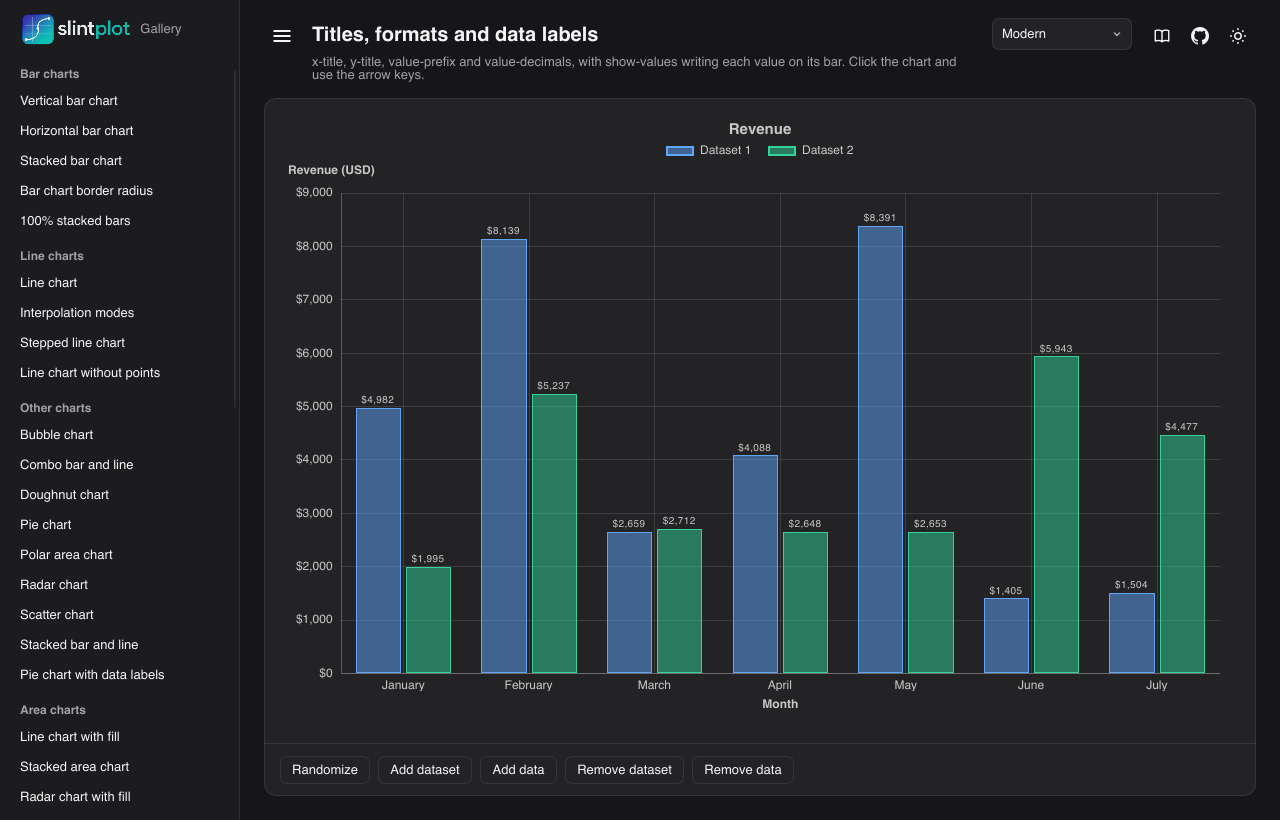
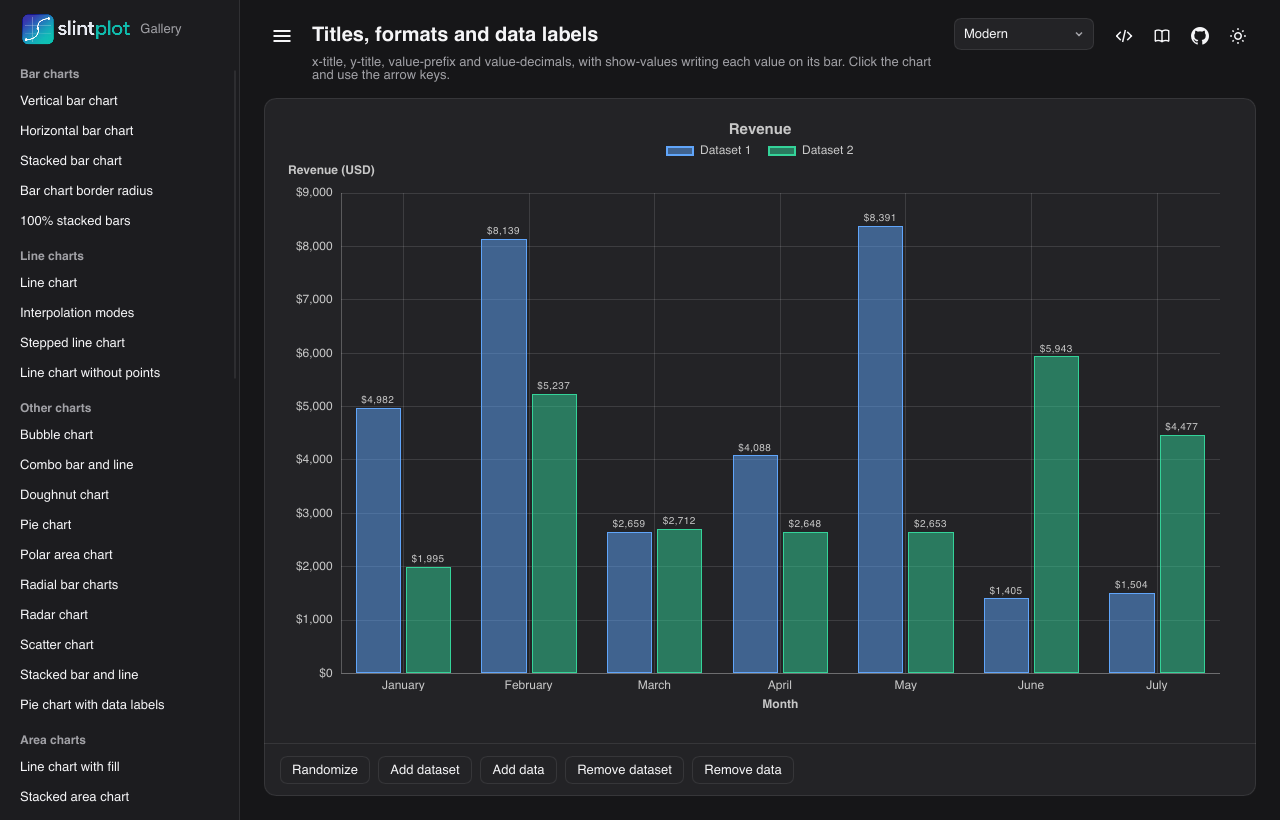
Release 0.3.0: Gantt, bullet, candlestick, radial bar and matrix charts, theme rise and fall colors; gallery code panel and Gantt editor. Website pictures of the gallery rendered again; cargo fmt

diff --git a/docs/index.html b/docs/index.html
@@ -371,18 +371,18 @@
 <figure class="shot"><img width="1280" height="820" class="when-light" src="screenshots/light.webp" alt="The gallery: a bar chart with axis titles, data labels and currency formatting" loading="lazy"><img width="1280" height="820" class="when-dark" src="screenshots/light-dark.webp" alt="The gallery: a bar chart with axis titles, data labels and currency formatting" loading="lazy">
   <figcaption>The gallery app, to try the library out: every chart type, with live data, themes and dark mode.
   <a href="demo/">Try it in your browser</a>, install it with <code>cargo install slintplot-gallery</code>, or download it ready-built from the
-  <a href="https://github.com/trondegil/slintplot/releases/tag/apps-v0.2.2">releases page</a>. See <a href="#examples">Example apps</a>.</figcaption></figure>
+  <a href="https://github.com/trondegil/slintplot/releases/tag/apps-v0.3.0">releases page</a>. See <a href="#examples">Example apps</a>.</figcaption></figure>
 
 <h2 id="getting-started">Getting started</h2>
 <h3>1. Add the dependencies</h3>
 <p>SlintPlot is used both as a regular dependency (the <code>register!</code> macro) and as a build dependency (to find its <code>.slint</code> files).</p>
 <pre><code>[dependencies]
 slint = "1.18"
-slintplot = "0.2"
+slintplot = "0.3"
 
 [build-dependencies]
 slint-build = "1.18"
-slintplot = "0.2"</code></pre>
+slintplot = "0.3"</code></pre>
 
 <h3>2. Make the library importable: <code>build.rs</code></h3>
 <pre><code>fn main() {
@@ -2310,7 +2310,7 @@ a hang or a runaway allocation. Its soak test repeats the same rounds for a whil
 cargo run --release -p slintplot-fuzz -- soak 60    # an hour of the same rounds</code></pre>
 <p>The gallery also runs in the browser, built with WebAssembly: <a href="demo/">slintplot.dev/demo</a>.</p>
 <p>Ready-built apps for macOS, Windows and Linux are on the
-<a href="https://github.com/trondegil/slintplot/releases/tag/apps-v0.2.2">releases page</a>.
+<a href="https://github.com/trondegil/slintplot/releases/tag/apps-v0.3.0">releases page</a>.
 Each download includes the licenses of the open-source crates it is built from.</p>
 <p><a href="https://slint.dev"><img src="assets/MadeWithSlint-logo-whitebg.webp" alt="Made with Slint" width="212" height="97"></a></p>
 <figure class="shot"><img width="1280" height="820" class="when-light" src="screenshots/gallery.webp" alt="The gallery sample browser" loading="lazy"><img width="1280" height="820" class="when-dark" src="screenshots/gallery-dark.webp" alt="The gallery sample browser" loading="lazy"></figure>
@@ -2417,14 +2417,14 @@ slintplot-stress --bench-stream   # only the streaming limits, with your machine
 slintplot-stress                  # the interactive stress test</code></pre>
 
 <h2 id="limitations">Limitations</h2>
-<p>What SlintPlot 0.2 doesn't do yet, or does with restrictions:</p>
+<p>What SlintPlot 0.3 doesn't do yet, or does with restrictions:</p>
 <ul>
   <li><strong>Rust only.</strong> The chart geometry is computed in Rust and connected with <code>register!</code>, so the library can't be used from Slint's C++, JavaScript or Python APIs. For the same reason, charts aren't drawn in Slint's live preview or SlintPad.</li>
   <li><strong>Platforms.</strong> Tested on desktop (macOS, Windows and Linux) and in the browser with WebAssembly, from version 0.1.2: the gallery runs <a href="demo/">in the browser</a>. Embedded (MCU) builds are untested. With Slint's software renderer, enable its <code>software-renderer-path</code> feature, or charts aren't drawn.</li>
   <li><strong>14 built-in languages.</strong> <a href="#languages"><code>ChartTheme.language</code></a> covers 14 languages; for others, set the <a href="#chart-locale"><code>ChartLocale</code></a> fields yourself. Grouping is always in thousands (no Indian lakh grouping, and four-digit numbers are grouped in every language), digits are Western, and right-to-left layout isn't supported.</li>
   <li><strong>Time zones.</strong> Time axes are in UTC, with an optional fixed offset. Named time zones and daylight saving time changes aren't supported.</li>
   <li><strong>Two value axes at most</strong>, and only in line, bar, scatter, bubble and time series charts: horizontal bar charts have one value axis.</li>
-  <li><strong>Zoom, pan and decimation</strong> work in the cartesian charts only (line, bar, scatter and time series). Zoom is off by default.</li>
+  <li><strong>Zoom, pan and decimation</strong> work in the cartesian charts only (line, bar, scatter and time series), and in candlestick and Gantt charts along time. Zoom is off by default.</li>
   <li><strong>Eight colors per theme.</strong> With more than eight datasets the colors repeat. Set your own palette for more (see <a href="#theming">Theming</a>).</li>
   <li><strong>Large charts of separate shapes are slower.</strong> Sunburst, waterfall, dumbbell and funnel charts draw every item as its own shape: about 270 ms for a sunburst with 10,000 items, and about 80&ndash;100 ms for waterfall and dumbbell charts. With up to 1,000 items, a frame takes under 30 ms. Decimation applies to lines only.</li>
   <li><strong>Label fitting is estimated.</strong> Sunburst and treemap labels are kept or hidden from an estimate of the text width, so very wide or narrow fonts can be clipped or hidden too early.</li>

diff --git a/examples/gallery/src/code.rs b/examples/gallery/src/code.rs
@@ -5,9 +5,9 @@
 use slint::{Color, Model, ModelRc, SharedString, VecModel};
 
 use crate::{
-    ChartCandle, ChartGanttTask, CodeFile, ChartDataset, ChartLegendPosition, ChartSeriesType, ChartSlice,
-    ChartSunburstItem, ChartTreemapItem, ChartWaterfallStep, ChartXY, Gallery, SAMPLE_CODE,
-    SLINTPLOT_NAMES,
+    ChartCandle, ChartDataset, ChartGanttTask, ChartLegendPosition, ChartSeriesType, ChartSlice,
+    ChartSunburstItem, ChartTreemapItem, ChartWaterfallStep, ChartXY, CodeFile, Gallery,
+    SAMPLE_CODE, SLINTPLOT_NAMES,
 };
 
 /// Lines are wrapped at this width.
@@ -26,9 +26,15 @@ pub fn sample_files(ui: &Gallery, id: &str) -> ModelRc<CodeFile> {
         ("src/main.rs", MAIN_RS.to_string()),
         ("build.rs", BUILD_RS.to_string()),
         ("Cargo.toml", cargo_toml(id)),
-        ("How to run", how_to_run(slint.contains("debug(self.status)"))),
+        (
+            "How to run",
+            how_to_run(slint.contains("debug(self.status)")),
+        ),
     ];
-    let files = files.map(|(name, code)| CodeFile { name: name.into(), code: code.into() });
+    let files = files.map(|(name, code)| CodeFile {
+        name: name.into(),
+        code: code.into(),
+    });
     ModelRc::new(VecModel::from(files.to_vec()))
 }
 
@@ -56,7 +62,9 @@ fn main() {
 /// The project's Cargo.toml, with SlintPlot of the gallery's version: its
 /// major and minor number.
 fn cargo_toml(id: &str) -> String {
-    let version = env!("CARGO_PKG_VERSION").rsplit_once('.').map_or("", |(minor, _)| minor);
+    let version = env!("CARGO_PKG_VERSION")
+        .rsplit_once('.')
+        .map_or("", |(minor, _)| minor);
     format!(
         "[package]\n\
          name = \"{id}-example\"\n\
@@ -191,7 +199,10 @@ fn import_line(code: &str) -> String {
     if line.len() <= WIDTH {
         return line;
     }
-    format!("import {{\n    {},\n}} from \"@slintplot\";\n", used.join(",\n    "))
+    format!(
+        "import {{\n    {},\n}} from \"@slintplot\";\n",
+        used.join(",\n    ")
+    )
 }
 
 /// The declaration of the gallery callback `name`, if it is one, so that the
@@ -326,7 +337,10 @@ impl Lit {
                     }
                 } else {
                     for item in items {
-                        out.push_str(&format!("{inner}{},\n", item.render_at(indent + 4, inner.len())));
+                        out.push_str(&format!(
+                            "{inner}{},\n",
+                            item.render_at(indent + 4, inner.len())
+                        ));
                     }
                 }
                 if *more > 0 {
@@ -340,7 +354,10 @@ impl Lit {
                 let mut out = String::from("{\n");
                 for (name, value) in fields {
                     let start = inner.len() + name.len() + 2;
-                    out.push_str(&format!("{inner}{name}: {},\n", value.render_at(indent + 4, start)));
+                    out.push_str(&format!(
+                        "{inner}{name}: {},\n",
+                        value.render_at(indent + 4, start)
+                    ));
                 }
                 out + &close + "}"
             }
@@ -361,7 +378,9 @@ trait ToLit {
 /// The items of `model`, up to `MAX_ITEMS`.
 fn list<T: ToLit + Clone + 'static>(model: ModelRc<T>) -> Lit {
     let shown = model.row_count().min(MAX_ITEMS);
-    let items = (0..shown).filter_map(|i| model.row_data(i)).map(|item| item.lit());
+    let items = (0..shown)
+        .filter_map(|i| model.row_data(i))
+        .map(|item| item.lit());
     Lit::List(items.collect(), model.row_count() - shown)
 }
 
@@ -539,8 +558,15 @@ mod tests {
     fn values_are_slint_literals() {
         assert_eq!(f32::NAN.lit().flat(), "0 / 0");
         assert_eq!(2.5f32.lit().flat(), "2.5");
-        assert_eq!(SharedString::from("a \"b\"").lit().flat(), "\"a \\\"b\\\"\"");
-        let slice = ChartSlice { label: "Web".into(), value: 12.0, ..Default::default() };
+        assert_eq!(
+            SharedString::from("a \"b\"").lit().flat(),
+            "\"a \\\"b\\\"\""
+        );
+        let slice = ChartSlice {
+            label: "Web".into(),
+            value: 12.0,
+            ..Default::default()
+        };
         assert_eq!(slice.lit().flat(), "{ label: \"Web\", value: 12 }");
     }
 }

diff --git a/examples/gallery/src/main.rs b/examples/gallery/src/main.rs
@@ -3,11 +3,11 @@
 //! `cargo run -p gallery` opens it; `cargo run -p gallery -- --snapshot <dir>`
 //! renders every sample to PNG files instead.
 
+mod code;
 #[cfg(not(target_arch = "wasm32"))]
 mod dock_icon;
 #[cfg(not(target_arch = "wasm32"))]
 mod snapshot;
-mod code;
 mod stream_model;
 
 use std::cell::{Cell, RefCell};

diff --git a/README.md b/README.md
@@ -41,7 +41,7 @@ to the mouse.
 *The gallery app shows every chart type with live data, themes and dark mode.
 [Try it in your browser](https://slintplot.dev/demo/), install it with
 `cargo install slintplot-gallery`, or download it ready-built from the
-[releases page](https://github.com/trondegil/slintplot/releases/tag/apps-v0.2.2).*
+[releases page](https://github.com/trondegil/slintplot/releases/tag/apps-v0.3.0).*
 
 ## Getting started
 
@@ -51,11 +51,11 @@ to the mouse.
 ```toml
 [dependencies]
 slint = "1.18"
-slintplot = "0.2"
+slintplot = "0.3"
 
 [build-dependencies]
 slint-build = "1.18"
-slintplot = "0.2"
+slintplot = "0.3"
 ```
 
 **2. Make the library importable** in `build.rs`:
@@ -207,21 +207,21 @@ cargo install slintplot-stress    # up to 8 × 1,000,000 points, 60 Hz streaming
 fontconfig and xkbcommon development packages (`libfontconfig-dev` and
 `libxkbcommon-dev` on Debian and Ubuntu). Ready-built apps for macOS, Windows
 and Linux are on the
-[releases page](https://github.com/trondegil/slintplot/releases/tag/apps-v0.2.2),
+[releases page](https://github.com/trondegil/slintplot/releases/tag/apps-v0.3.0),
 and the source is in [`examples/gallery`](https://github.com/trondegil/slintplot/tree/main/examples/gallery) and
 [`examples/stress`](https://github.com/trondegil/slintplot/tree/main/examples/stress). The gallery's `ui/gallery.slint` has a
 working example of every chart.
 
 ## Limitations
 
-What SlintPlot 0.2 doesn't do yet, or does with restrictions:
+What SlintPlot 0.3 doesn't do yet, or does with restrictions:
 
 - **Rust only.** The chart geometry is computed in Rust, so the library can't be used from Slint's C++, JavaScript or Python APIs, and charts aren't drawn in Slint's live preview or SlintPad.
 - **Platforms.** Tested on desktop (macOS, Windows and Linux) and in the browser with WebAssembly. Embedded (MCU) builds are untested. With Slint's software renderer, enable its `software-renderer-path` feature, or charts aren't drawn.
 - **Languages.** Grouping is always in thousands, digits are Western, and right-to-left layout isn't supported.
 - **Time zones.** Time axes are in UTC, with an optional fixed offset. Named time zones and daylight saving time aren't supported.
 - **Two value axes at most**, in line, bar, scatter, bubble and time series charts.
-- **Zoom, pan and decimation** work in line, bar, scatter and time series charts only.
+- **Zoom, pan and decimation** work in line, bar, scatter and time series charts only, and in candlestick and Gantt charts along time.
 - **Eight colors per theme.** With more datasets the colors repeat; set your own palette for more.
 - **Charts of separate shapes are slower.** Sunburst, waterfall, dumbbell and funnel charts draw every item as its own shape: under 30 ms a frame up to 1,000 items, about 270 ms for a sunburst with 10,000.
 - **No image or PDF export.** To save a chart as PNG, render the window with Slint's software renderer, as the gallery's `--snapshot` option does.

diff --git a/CHANGELOG.md b/CHANGELOG.md
@@ -1,6 +1,6 @@
 # Changelog
 
-## Unreleased
+## 0.3.0
 
 ### Added
 
@@ -58,12 +58,40 @@
   column)` reports clicks. The circles grow in and resize when the values
   change. Cells smaller than a few pixels merge into blocks, so a 500 by
   500 matrix stays fast.
+- `ChartTheme.increase-color` and `decrease-color`: a green and a red for
+  rises and falls that suit the palette (a light and a dark blue in the mono
+  palette). Candlestick and waterfall charts use them.
+- `ChartLocale` texts for the new charts: `open`, `high`, `low`, `close` and
+  `volume` for candlesticks, `target`, `of-target` and `off-scale` for bullet
+  charts, and `up-to` for bands without a label, in the 14 languages.
+
+### Changed
+
+- Waterfall charts take their rise and fall colors from the theme, so they
+  follow the palette. The default palette's colors are the same as before.
+
+### Breaking changes
+
+- Slint: `ChartLocale` has new fields. Rust code that builds one needs
+  `..Default::default()`.
 
 ### Fixed
 
 - A time series with `fill: true` lost its fill when it had more than two
   points per pixel, for example a week of 15-minute values on a phone. The
   decimated line now keeps its area, like the line chart.
+
+### Example apps
+
+- **Gallery:** samples of the five new charts. Clicking a chart writes what
+  was clicked, with its value, at the bottom right. The code button opens the
+  sample as a small app that runs as it is: tabs with `ui/app.slint`, with
+  the data the chart shows, `src/main.rs`, `build.rs`, `Cargo.toml` and how
+  to run it, each with a Copy button. Clicking a task in the Gantt sample
+  opens a dialog that changes its name, group, dates and progress. The pie,
+  doughnut and polar area samples' slices are product categories instead of
+  color names that didn't match their colors.
+- **Stress test:** built with this release.
 
 ## 0.2.2
 
